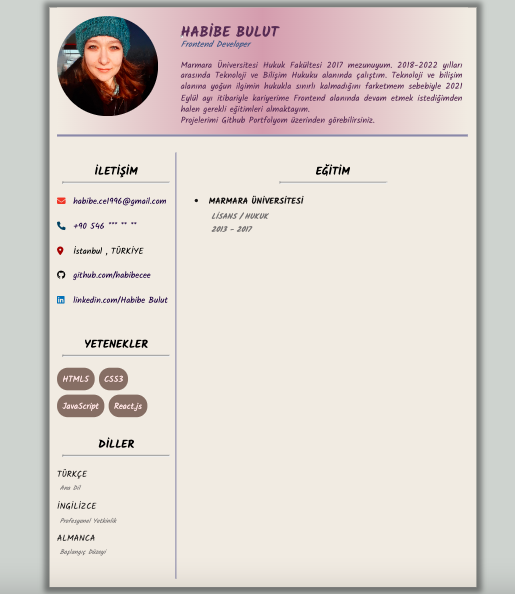
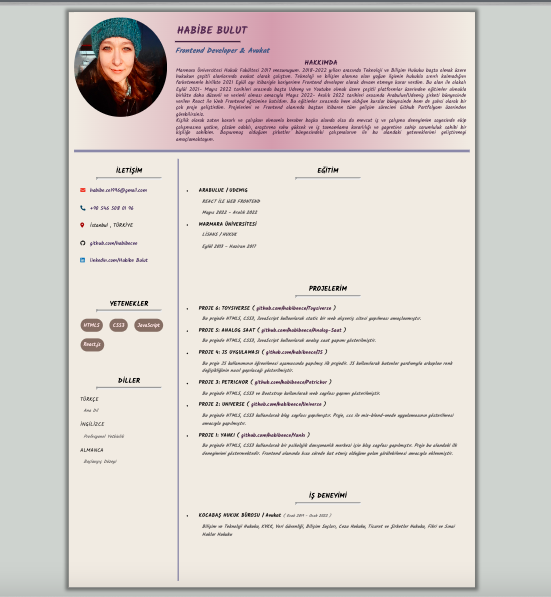
guncelleme

Changed region(s): [[0.0, 0.0, 1.0, 1.0]]

diff --git a/index.html b/index.html
@@ -5,7 +5,7 @@
     <meta charset="UTF-8">
     <meta http-equiv="X-UA-Compatible" content="IE=edge">
     <meta name="viewport" content="width=device-width, initial-scale=1.0">
-    <title>Document</title>
+    <title>MY CV - HABİBE BULUT </title>
     <link rel="stylesheet" href="style.css">
     <script src="main.js"></script>
     <link rel="stylesheet" href="https://cdnjs.cloudflare.com/ajax/libs/font-awesome/6.1.2/css/all.min.css"
@@ -18,22 +18,44 @@
     <div class="container">
         <div class="up">
             <div class="up-left">
+
                 <img src="cvphoto.jpg" alt="" srcset="">
 
             </div>
             <div class="up-right">
-                <h2> HABİBE BULUT </h2>
-                <hr>
-                <span> <i> Frontend Developer </i></span>
+                <div>
+                    <h2> HABİBE BULUT </h2>
+                    <hr>
+                    <span> <i class="up-right-i"> Frontend Developer & Avukat </i></span>
+                </div>
+                <h3> HAKKIMDA </h3>
                 <p> Marmara Üniversitesi Hukuk Fakültesi 2017 mezunuyum. 2018-2022 yılları arasında Teknoloji ve
-                    Bilişim Hukuku alanında çalıştım. Teknoloji ve bilişim alanına
-                    yoğun ilgimin hukukla sınırlı kalmadığını farketmem sebebiyle 2021 Eylül ayı itibariyle
-                    kariyerime Frontend alanında devam etmek istediğimden halen gerekli eğitimleri almaktayım. <br>
-                    Projelerimi Github Portfolyom üzerinden görebilirsiniz. </p>
-
+                    Bilişim Hukuku başta olmak üzere hukukun çeşitli alanlarında avukat olarak çalıştım. Teknoloji
+                    ve
+                    bilişim alanına olan
+                    yoğun ilgimin hukukla sınırlı kalmadığını farketmemle birlikte 2021 Eylül ayı itibariyle
+                    kariyerime Frontend developer olarak devam etmeye karar verdim. Bu alan ile alakalı Eylül 2021-
+                    Mayıs 2022 tarihleri arasında başta Udemy ve Youtube olmak üzere çeşitli platformlar üzerinden
+                    eğitimler almakla birlikte daha düzenli ve verimli olması amacıyla Mayıs 2022- Aralık 2022
+                    tarihleri
+                    arasında Arabulue/Udemig şirketi bünyesinde verilen React ile Web Frontend eğitimine katıldım.
+                    Bu
+                    eğitimler
+                    sırasında hem aldığım kurslar bünyesinde hem de şahsi olarak bir çok proje geliştirdim.
+                    Projelerimi ve Frontend alanında baştan itibaren tüm gelişim sürecimi Github Portfolyom
+                    üzerinden
+                    görebilirsiniz. <br> Kişilik olarak zaten kararlı ve çalışkan olmamla beraber başka alanda olsa
+                    da
+                    mevcut
+                    iş ve çalışma deneyimim sayesinde ekip çalışmasına yatkın, çözüm odaklı, araştırma ruhu yüksek
+                    ve iş
+                    tamamlama kararlılığı ve gayretine sahip sorumluluk sahibi bir kişiliğe sahibim. Başvurmuş
+                    olduğum
+                    şirketler
+                    bünyesindeki çalışmalarım ile bu alandaki yeteneklerimi geliştirmeyi amaçlamaktayım. </p>
             </div>
         </div>
-        <hr class="sinir" style="border: 1px solid #898AA6;">
+        <hr class="sinir">
         <div class="down">
             <div class="down-left">
                 <div class="contact">
@@ -54,7 +76,7 @@
                             <i class="fa-solid fa-phone" style="color: #00405d;"></i>
                         </div>
                         <div class="tel-info links">
-                            <a href="tel:+905465080196"> +90 546 *** ** ** </a>
+                            <a href="tel:+905465080196"> +90 546 508 01 96 </a>
                         </div>
                     </div>
                     <div class="adress contact-item">
@@ -119,23 +141,90 @@
                 </div>
             </div>
             <div class="down-right">
-                <div class="education">
+                <div class="down-right-items">
                     <div class="right-baslik">
                         <h3> EĞİTİM </h3>
                         <hr>
                     </div>
-                    <div class="education">
-                        <div class="language-items education-items">
+                    <div class="down-right-item">
+                        <div class="language-items">
                             <ul>
+                                <li class="lang-item" id="collage"> ARABULUE / UDEMIG </li>
+                                <p class="lang-detail" id="branch"> <i> REACT İLE WEB FRONTEND </i></p>
+                                <p class="lang-detail" id="graduated"> <i> Mayıs 2022 - Aralık 2022 </i></p>
                                 <li class="lang-item" id="collage"> MARMARA ÜNİVERSİTESİ </li>
                                 <p class="lang-detail" id="branch"> <i> LİSANS / HUKUK </i></p>
-                                <p class="lang-detail" id="graduated"> <i> 2013 - 2017 </i></p>
+                                <p class="lang-detail" id="graduated"> <i> Eylül 2013 - Haziran 2017 </i></p>
+
                             </ul>
                         </div>
                     </div>
+                    <div class="right-baslik">
+                        <h3> PROJELERİM </h3>
+                        <hr>
+                    </div>
+                    <div class="down-right-item">
+                        <div class="language-items">
+                            <ul>
+                                <li class="lang-item" id="collage"> PROJE 6: TOYSIVERSE ( <a
+                                        href="https://github.com/habibecee/TOYSIVERSE" id="projects-links">
+                                        github.com/habibeece/Toysiverse </a> ) </li>
+                                <p class="lang-detail" id="branch"> <i> Bu projede HTML5, CSS3, JavaScript kullanılarak
+                                        static bir web alışveriş sitesi yapılması amaçlanmıştır. </i></p>
+                                <li class="lang-item" id="collage"> PROJE 5: ANALOG SAAT ( <a
+                                        href="https://github.com/habibecee/ANALOG-SAAT" id="projects-links">
+                                        github.com/habibeece/Analog-Saat </a> ) </li>
+                                <p class="lang-detail" id="branch"> <i> Bu projede HTML5, CSS3, JavaScript kullanılarak
+                                        analog saat yapımı gösterilmiştir. </i></p>
+                                <li class="lang-item" id="collage"> PROJE 4: JS UYGULAMASI ( <a
+                                        href="https://github.com/habibecee/ilk-js-projesi" id="projects-links">
+                                        github.com/habibeece/JS </a> ) </li>
+                                <p class="lang-detail" id="branch"> <i> Bu proje JS kullanımının öğrenilmesi aşamasında
+                                        yapılmış ilk projedir. JS kullanılarak
+                                        butonlar yardımıyla arkaplan renk değişikliğinin nasıl yapılacağı
+                                        gösterilmiştir. </i></p>
+                                <li class="lang-item" id="collage"> PROJE 3: PETRICHOR ( <a
+                                        href="https://github.com/habibecee/petrichor" id="projects-links">
+                                        github.com/habibeece/Petrichor </a> ) </li>
+                                <p class="lang-detail" id="branch"> <i> Bu projede HTML5, CSS3 ve Bootstrap kullanılarak
+                                        web sayfası yapımı gösterilmiştir. </i></p>
+                                <li class="lang-item" id="collage"> PROJE 2: UNIVERSE ( <a
+                                        href="https://github.com/habibecee/universe" id="projects-links">
+                                        github.com/habibeece/Universe </a> ) </li>
+                                <p class="lang-detail" id="branch"> <i> Bu projede HTML5, CSS3 kullanılarak
+                                        blog sayfası yapılmıştır. Proje, css ile mix-blend-mode uygulamasının
+                                        gösterilmesi amacıyla yapılmıştır. </i></p>
+                                <li class="lang-item" id="collage"> PROJE 1: YANKI ( <a
+                                        href="https://github.com/habibecee/yanki" id="projects-links">
+                                        github.com/habibeece/Yankı </a> ) </li>
+                                <p class="lang-detail" id="branch"> <i> Bu projede HTML5, CSS3 kullanılarak
+                                        bir psikolojik danışmanlık merkezi için blog sayfası yapılmıştır. Proje bu
+                                        alandaki ilk deneyimimi göstermektedir. Frontend alanında kısa sürede kat etmiş
+                                        olduğum yolun görülebilmesi amacıyla eklenmiştir. </i></p>
 
+
+
+                            </ul>
+                        </div>
+                    </div>
+                    <div class="right-baslik">
+                        <h3> İŞ DENEYİMİ </h3>
+                        <hr>
+                    </div>
+                    <div class="down-right-item">
+                        <div class="language-items">
+                            <ul>
+                                <li class="lang-item" id="collage"> KOCABAŞ HUKUK BÜROSU / Avukat <i
+                                        id="exp-date-item">(
+                                        Ocak 2019 - Ocak 2022 )</i> </li>
+                                <p class="lang-detail" id="branch"> <i> Bilişim ve Teknoloji Hukuku, KVKK, Veri
+                                        Güvenliği, Bilişim Suçları, Ceza Hukuku, Ticaret ve Şirketler Hukuku, Fikri ve
+                                        Sınai Haklar Hukuku </i>
+                                </p>
+                            </ul>
+                        </div>
+                    </div>
                 </div>
-
             </div>
         </div>
     </div>

diff --git a/style.css b/style.css
@@ -15,9 +15,8 @@ body {
 
 .container {
     background-color: #F0EBE3;
-    width: 794px;
-    min-height: 600px;
-    max-height: 1123px;
+    width: 1240px;
+    max-height: 1754px;
     margin: 40px auto;
     box-shadow: 0 0 10px 10px rgba(0, 0, 0, 0.42);
     padding: 0 15px;
@@ -25,7 +24,7 @@ body {
 }
 
 .sinir{
-    margin-bottom: 30px;
+    border: 1px solid #898AA6;
 }
 
 .up {
@@ -41,13 +40,13 @@ body {
 }
 
 .up-left {
-    width: 220px;
-    height: 220px;
+    width: 300px;
+    height: 320px;
 }
 
 .up-left img {
-    width: 85%;
-    height: 85%;
+    width: 95%;
+    height: 95%;
     border-radius: 50%;
 }
 
@@ -55,39 +54,59 @@ body {
     flex: 1;
     display: flex;
     flex-direction: column;
-    align-items: flex-start;
+    align-items: center;
     padding: 10px;
+    margin-bottom: 10px;
     
+}
+
+.up-right div{
+    width: 100%;
 }
 
 .up-right h2 {
     font-weight: bold;
-    margin-bottom: -15px;
-    font-size: 1.7rem;
+    margin: 5px 5px;
+    font-size: 2rem;
     color: #513252;
 }
 
 .up-right p {
     text-align: justify;
-    margin-top: 15px;
-    line-height: 1.3;
-    color: #513252;
+    line-height: 1.2;
+    color: #331e34;
+    margin: 0 2px;
 }
 
-.up-right span{
+.up-right h3{
+    font-size: 1.3rem;
+    font-weight: bold;
+   color: #3f263f;
+}
+
+.up-right hr{
+    width: 200px;
+    height: 1px;
+    margin-bottom: 10px;
+    background-color: #3f263f; 
+    border: none;
+}
+
+.up-right-i{
+    font-weight: bold;
+    font-size: 22px;
     color: #495C83;
-    font-size: 16px;
 }
 
 .down {
+    padding: 20px;
     width: 100%;
-    min-height: 600px;
+    height: 90%;
     display: flex;
 }
 
 .down-left {
-    width: 222px;
-    min-height: 600px;
+    width: 302px;
     border-right: 2px solid #898AA6;
 }
 
@@ -99,23 +118,24 @@ body {
     align-items: center;
     justify-content:space-between;
     margin-left: 40px;
+    
 }
 
 .contact,
 .skills,
-.languages, .education {
+.languages, .down-right-items, .down-right-item {
     width: 100%;
     height: auto;
     display: flex;
     flex-direction: column;
     align-items: center;
-    margin-bottom: 15px;
+    margin-bottom: 50px;
 }
 
 .contact-item {
     width: 100%;
     display: flex;
-    margin-bottom: 20px;
+    margin-bottom: 30px;
 }
 
 .contact-icons {
@@ -148,7 +168,7 @@ body {
 .skills-box{
     display: flex;
     flex-wrap: wrap;
-    gap: 8px;
+    gap: 20px;
 }
 
 .skills-item{
@@ -160,19 +180,19 @@ body {
 
 .language-items{
     width: 100%;
-   margin-bottom: 10px;
+   margin-bottom: 20px;
 }
 
 .lang-item{
     font-size: 16px;
     color: #171515;
-    margin-bottom: 5px;
+    margin-bottom: 10px;
 }
 
 .lang-detail{
-    font-size: 12px;
-    color: rgb(118, 116, 116);
-    padding-left: 5px;
+    font-size: 14px;
+    color: rgb(96, 94, 94);
+    padding-left: 10px;
 }
 
 .right-baslik{
@@ -190,10 +210,25 @@ body {
     
 }
 
-#branch, #graduated{
+#branch, #graduated, #exp-date-item{
     font-weight: bold;
     font-size: .9rem;
 }
+
+#exp-date-item{
+    font-size: 12px;
+    color: rgb(118, 116, 116);
+}
+
+#projects-links{
+text-decoration: none;
+color: #3f263f;
+}
+    
+.language-items ul li, .language-items ul p {
+    margin-bottom: 10px;
+}
+
 
 
 
